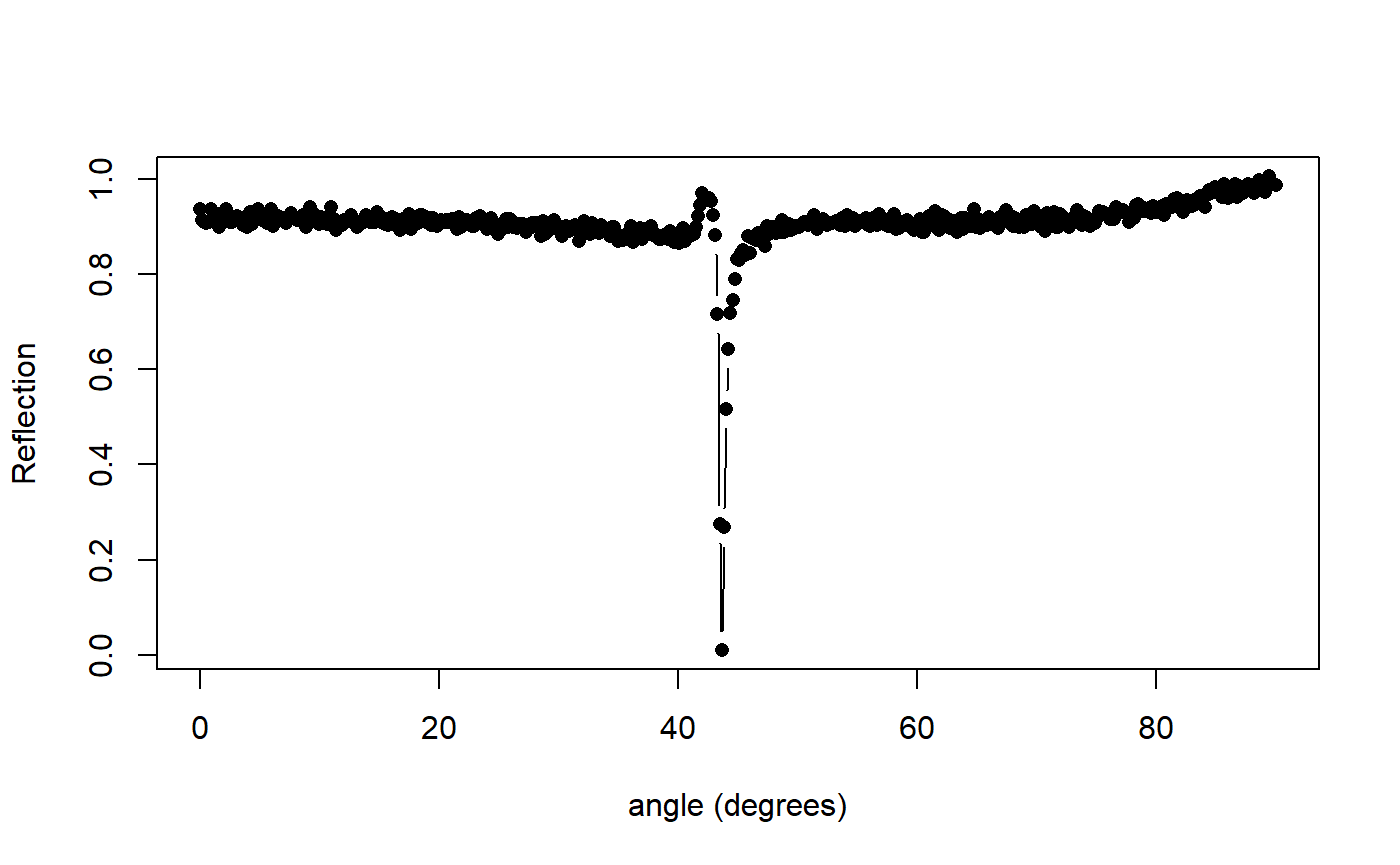
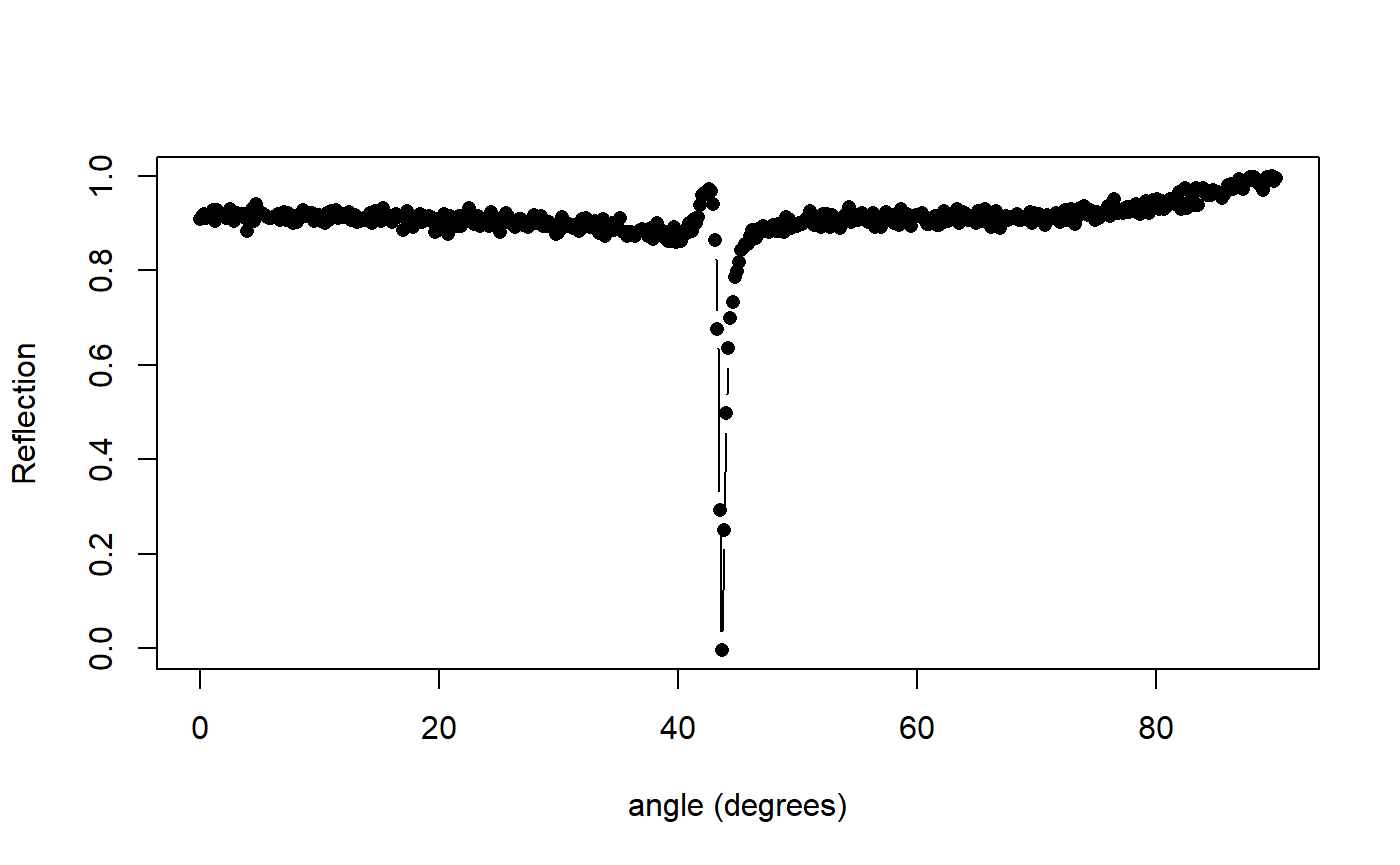
adding Pedrotti vignette

diff --git a/docs/articles/Pedrotti.html b/docs/articles/Pedrotti.html
@@ -1,0 +1,227 @@
+<!DOCTYPE html>
+<!-- Generated by pkgdown: do not edit by hand --><html>
+<head>
+<meta http-equiv="Content-Type" content="text/html; charset=UTF-8">
+<meta charset="utf-8">
+<meta http-equiv="X-UA-Compatible" content="IE=edge">
+<meta name="viewport" content="width=device-width, initial-scale=1.0">
+<title>Pedrotti Examples • mlfilms</title>
+<!-- jquery --><script src="https://code.jquery.com/jquery-3.1.0.min.js" integrity="sha384-nrOSfDHtoPMzJHjVTdCopGqIqeYETSXhZDFyniQ8ZHcVy08QesyHcnOUpMpqnmWq" crossorigin="anonymous"></script><!-- Bootstrap --><link href="https://maxcdn.bootstrapcdn.com/bootstrap/3.3.7/css/bootstrap.min.css" rel="stylesheet" integrity="sha384-BVYiiSIFeK1dGmJRAkycuHAHRg32OmUcww7on3RYdg4Va+PmSTsz/K68vbdEjh4u" crossorigin="anonymous">
+<script src="https://maxcdn.bootstrapcdn.com/bootstrap/3.3.7/js/bootstrap.min.js" integrity="sha384-Tc5IQib027qvyjSMfHjOMaLkfuWVxZxUPnCJA7l2mCWNIpG9mGCD8wGNIcPD7Txa" crossorigin="anonymous"></script><!-- Font Awesome icons --><link href="https://maxcdn.bootstrapcdn.com/font-awesome/4.6.3/css/font-awesome.min.css" rel="stylesheet" integrity="sha384-T8Gy5hrqNKT+hzMclPo118YTQO6cYprQmhrYwIiQ/3axmI1hQomh7Ud2hPOy8SP1" crossorigin="anonymous">
+<!-- clipboard.js --><script src="https://cdnjs.cloudflare.com/ajax/libs/clipboard.js/1.7.1/clipboard.min.js" integrity="sha384-cV+rhyOuRHc9Ub/91rihWcGmMmCXDeksTtCihMupQHSsi8GIIRDG0ThDc3HGQFJ3" crossorigin="anonymous"></script><!-- pkgdown --><link href="../pkgdown.css" rel="stylesheet">
+<script src="../jquery.sticky-kit.min.js"></script><script src="../pkgdown.js"></script><!-- docsearch --><link rel="stylesheet" href="https://cdn.jsdelivr.net/npm/docsearch.js@2/dist/cdn/docsearch.min.css">
+<link href="../docsearch.css" rel="stylesheet">
+<script src="https://cdnjs.cloudflare.com/ajax/libs/mark.js/8.11.1/jquery.mark.min.js" integrity="sha256-4HLtjeVgH0eIB3aZ9mLYF6E8oU5chNdjU6p6rrXpl9U=" crossorigin="anonymous"></script><meta property="og:title" content="Pedrotti Examples">
+<meta property="og:description" content="">
+<meta property="og:image" content="http://mlfilms.tjconstant.com/logo.png">
+<meta name="twitter:card" content="summary">
+<!-- mathjax --><script src="https://mathjax.rstudio.com/latest/MathJax.js?config=TeX-AMS-MML_HTMLorMML"></script><!--[if lt IE 9]>
+<script src="https://oss.maxcdn.com/html5shiv/3.7.3/html5shiv.min.js"></script>
+<script src="https://oss.maxcdn.com/respond/1.4.2/respond.min.js"></script>
+<![endif]-->
+</head>
+<body>
+    <div class="container template-article">
+      <header><div class="navbar navbar-default navbar-fixed-top" role="navigation">
+  <div class="container">
+    <div class="navbar-header">
+      <button type="button" class="navbar-toggle collapsed" data-toggle="collapse" data-target="#navbar">
+        <span class="icon-bar"></span>
+        <span class="icon-bar"></span>
+        <span class="icon-bar"></span>
+      </button>
+      <span class="navbar-brand">
+        <a class="navbar-link" href="../index.html">mlfilms</a>
+        <span class="label label-danger" data-toggle="tooltip" data-placement="bottom" title="Unreleased package">0.3.1</span>
+      </span>
+    </div>
+
+    <div id="navbar" class="navbar-collapse collapse">
+      <ul class="nav navbar-nav">
+<li>
+  <a href="../index.html">
+    <span class="fa fa-home fa-lg"></span>
+     
+  </a>
+</li>
+<li>
+  <a href="../reference/index.html">Reference</a>
+</li>
+<li class="dropdown">
+  <a href="#" class="dropdown-toggle" data-toggle="dropdown" role="button" aria-expanded="false">
+    Articles
+     
+    <span class="caret"></span>
+  </a>
+  <ul class="dropdown-menu" role="menu">
+<li>
+      <a href="../articles/Dispersive_materials.html">Dispersive Materials</a>
+    </li>
+    <li>
+      <a href="../articles/Fitting.html">Fitting Experimental Data</a>
+    </li>
+    <li>
+      <a href="../articles/Pedrotti.html">Pedrotti Examples</a>
+    </li>
+  </ul>
+</li>
+      </ul>
+<ul class="nav navbar-nav navbar-right">
+<li>
+  <a href="http://github.com/tjconstant/mlfilms">
+    <span class="fa fa-github fa-lg"></span>
+     
+  </a>
+</li>
+      </ul>
+<form class="navbar-form navbar-right" role="search">
+        <div class="form-group">
+          <input type="search" class="form-control" name="search-input" id="search-input" placeholder="Search..." aria-label="Search for..." autocomplete="off">
+</div>
+      </form>
+      
+    </div>
+<!--/.nav-collapse -->
+  </div>
+<!--/.container -->
+</div>
+<!--/.navbar -->
+
+      
+      </header><div class="row">
+  <div class="col-md-9 contents">
+    <div class="page-header toc-ignore">
+      <h1>Pedrotti Examples</h1>
+                        <h4 class="author">Tom Constant</h4>
+            
+            <h4 class="date">2018-05-22</h4>
+      
+      <small class="dont-index">Source: <a href="http://github.com/tjconstant/mlfilms/blob/master/vignettes/Pedrotti.Rmd"><code>vignettes/Pedrotti.Rmd</code></a></small>
+      <div class="hidden name"><code>Pedrotti.Rmd</code></div>
+
+    </div>
+
+    
+    
+<div id="pedrotti-pedrotti-pedrotti" class="section level2">
+<h2 class="hasAnchor">
+<a href="#pedrotti-pedrotti-pedrotti" class="anchor"></a>Pedrotti, Pedrotti &amp; Pedrotti</h2>
+<p>The <code>mlfilms</code> package was originally written as an example package to encourage undergraduate physics students to develop, or at least acquire a basic working knowledge of how to program the Transfer Matrix Method. As such, the base code for <code>mlfilms</code> follows, as close as possible, the naming and variable conventions from the recommended undergraduate text for Exeter university undergraduates; Pedrotti, Pedrotti &amp; Pedrotti’s Introduction to Optics<a href="#fn1" class="footnoteRef" id="fnref1"><sup>1</sup></a>.</p>
+<p>The package has since been abstracted a little too far for an introductory coding experience for new physics students, but the examples from the text are reproduced here for historical reasons. Reproducing these examples (mostly figures from the text) was the final step to ensure students own code was working correctly.</p>
+<div class="sourceCode"><pre class="sourceCode r"><code class="sourceCode r"><span class="kw">library</span>(mlfilms)</code></pre></div>
+</div>
+<div id="example-call-for-wavelength-scan-highlow-index-stack" class="section level2">
+<h2 class="hasAnchor">
+<a href="#example-call-for-wavelength-scan-highlow-index-stack" class="anchor"></a>Example call for wavelength scan (high/low index stack)</h2>
+<div class="sourceCode"><pre class="sourceCode r"><code class="sourceCode r">layers&lt;-<span class="kw">list</span>(<span class="dt">index=</span><span class="kw">c</span>(<span class="fl">2.35</span><span class="op">+</span>0i,<span class="fl">1.38</span><span class="op">+</span>0i),<span class="dt">thickness=</span><span class="kw">c</span>(<span class="fl">550e-9</span><span class="op">/</span>(<span class="dv">4</span><span class="op">*</span><span class="fl">2.35</span>),<span class="fl">550e-9</span><span class="op">/</span>(<span class="dv">4</span><span class="op">*</span><span class="fl">1.38</span>)),<span class="dt">repetitions=</span><span class="dv">6</span>)
+R_highlowStack6&lt;-<span class="kw"><a href="../reference/wavelength_scan.html">wavelength_scan</a></span>(<span class="dt">incident_medium.index=</span><span class="dv">1</span><span class="op">+</span>0i,<span class="dt">exit_medium.index=</span><span class="fl">1.52</span><span class="op">+</span>0i,<span class="dt">layers=</span>layers)
+<span class="kw">plot</span>(R_highlowStack6<span class="op">$</span>wavelength,R_highlowStack6<span class="op">$</span>Reflection,<span class="dt">type=</span><span class="st">'l'</span>,<span class="dt">lwd=</span><span class="dv">2</span>, <span class="dt">ylim=</span><span class="kw">c</span>(<span class="dv">0</span>,<span class="dv">1</span>))
+<span class="kw">title</span>(<span class="st">"H/L index stack (N=6 &amp; 2): Pedrotti Figure 22-9"</span>)
+
+layers<span class="op">$</span>repetitions&lt;-<span class="dv">2</span>
+R_highlowStack2&lt;-<span class="kw"><a href="../reference/wavelength_scan.html">wavelength_scan</a></span>(<span class="dt">incident_medium.index=</span><span class="dv">1</span><span class="op">+</span>0i,<span class="dt">exit_medium.index=</span><span class="fl">1.52</span><span class="op">+</span>0i,<span class="dt">layers=</span>layers)
+<span class="kw">lines</span>(R_highlowStack2<span class="op">$</span>wavelength, R_highlowStack2<span class="op">$</span>Reflection,<span class="dt">lty=</span><span class="dv">2</span>,<span class="dt">lwd=</span><span class="dv">2</span>)</code></pre></div>
+<p><img src="Pedrotti_files/figure-html/unnamed-chunk-2-1.png" width="700"></p>
+</div>
+<div id="example-call-for-angle-scan-plasmon-and-plasmon-shifted-due-to-60-nm-water-layer" class="section level2">
+<h2 class="hasAnchor">
+<a href="#example-call-for-angle-scan-plasmon-and-plasmon-shifted-due-to-60-nm-water-layer" class="anchor"></a>Example call for angle scan (plasmon) and plasmon shifted due to 60 nm water layer</h2>
+<div class="sourceCode"><pre class="sourceCode r"><code class="sourceCode r">layers&lt;-<span class="kw">list</span>(<span class="dt">index=</span><span class="kw">c</span>(<span class="fl">0.13</span><span class="op">+</span>4i),<span class="dt">thickness=</span><span class="kw">c</span>(<span class="fl">45e-9</span>),<span class="dt">repetitions=</span> <span class="dv">1</span>)
+R_plasmon&lt;-<span class="kw"><a href="../reference/angle_scan.html">angle_scan</a></span>(<span class="dt">incident_medium.index=</span><span class="fl">1.5</span><span class="op">+</span>0i,<span class="dt">exit_medium.index=</span><span class="dv">1</span><span class="op">+</span>0i,<span class="dt">layers=</span>layers)
+<span class="kw">plot</span>(R_plasmon<span class="op">$</span>angle,R_plasmon<span class="op">$</span>Reflection,<span class="dt">type=</span><span class="st">'l'</span>,<span class="dt">lwd=</span><span class="dv">2</span>, <span class="dt">ylim=</span><span class="kw">c</span>(<span class="dv">0</span>,<span class="dv">1</span>))
+<span class="kw">title</span>(<span class="st">"Surface Plasmon in air and water"</span>)
+
+layers<span class="op">$</span>index&lt;-<span class="kw">c</span>(<span class="fl">0.13</span><span class="op">+</span>4i,<span class="fl">1.33</span><span class="op">+</span>0i)
+layers<span class="op">$</span>thickness&lt;-<span class="kw">c</span>(<span class="fl">45e-9</span>,<span class="fl">60e-9</span>)
+layers<span class="op">$</span>repetitions&lt;-<span class="dv">1</span>
+R_plasmon2&lt;-<span class="kw"><a href="../reference/angle_scan.html">angle_scan</a></span>(<span class="dt">incident_medium.index=</span><span class="fl">1.5</span><span class="op">+</span>0i,<span class="dt">exit_medium.index=</span><span class="dv">1</span><span class="op">+</span>0i,<span class="dt">layers=</span>layers)
+<span class="kw">lines</span>(R_plasmon2<span class="op">$</span>angle,R_plasmon2<span class="op">$</span>Reflection,<span class="dt">lwd=</span><span class="dv">2</span>,<span class="dt">lty=</span><span class="dv">2</span>)</code></pre></div>
+<p><img src="Pedrotti_files/figure-html/unnamed-chunk-3-1.png" width="700"></p>
+</div>
+<div id="example-call-for-wavelength-scan--triple-layer-film-pedrotti-figure-22-7" class="section level2">
+<h2 class="hasAnchor">
+<a href="#example-call-for-wavelength-scan--triple-layer-film-pedrotti-figure-22-7" class="anchor"></a>Example call for wavelength scan. Triple layer film (Pedrotti figure 22-7)</h2>
+<div class="sourceCode"><pre class="sourceCode r"><code class="sourceCode r">layers=<span class="kw">list</span>(<span class="dt">index=</span><span class="kw">c</span>(<span class="fl">1.38</span><span class="op">+</span>0i,<span class="fl">2.02</span><span class="op">+</span>0i,<span class="fl">1.8</span><span class="op">+</span>0i),<span class="dt">thickness=</span><span class="kw">c</span>(<span class="fl">550e-9</span><span class="op">/</span>(<span class="dv">4</span><span class="op">*</span><span class="fl">1.38</span>),<span class="fl">550e-9</span><span class="op">/</span>(<span class="dv">4</span><span class="op">*</span><span class="fl">2.02</span>),<span class="fl">550e-9</span><span class="op">/</span>(<span class="dv">4</span><span class="op">*</span><span class="fl">1.8</span>)),<span class="dt">repetitions=</span><span class="dv">1</span>)
+R_triple&lt;-<span class="kw"><a href="../reference/wavelength_scan.html">wavelength_scan</a></span>(<span class="dt">incident_medium.index=</span><span class="dv">1</span><span class="op">+</span>0i,<span class="dt">exit_medium.index=</span><span class="fl">1.52</span><span class="op">+</span>0i,<span class="dt">layers=</span>layers)
+<span class="kw">plot</span>(R_triple<span class="op">$</span>wavelength,R_triple<span class="op">$</span>Reflection,<span class="dt">type=</span><span class="st">'l'</span>,<span class="dt">lwd=</span><span class="dv">2</span>, <span class="dt">ylim=</span><span class="kw">c</span>(<span class="dv">0</span>,<span class="fl">0.1</span>));<span class="kw">grid</span>()
+<span class="kw">title</span>(<span class="st">"Triple Films: Pedrotti Figure 22-7"</span>)
+
+layers<span class="op">$</span>index&lt;-<span class="kw">c</span>(<span class="fl">1.38</span><span class="op">+</span>0i,<span class="fl">2.2</span><span class="op">+</span>0i,<span class="fl">1.7</span><span class="op">+</span>0i)
+layers<span class="op">$</span>thickness&lt;-<span class="kw">c</span>(<span class="fl">550e-9</span><span class="op">/</span>(<span class="dv">4</span><span class="op">*</span><span class="fl">1.38</span>),<span class="fl">550e-9</span><span class="op">/</span>(<span class="dv">2</span><span class="op">*</span><span class="fl">2.2</span>),<span class="fl">550e-9</span><span class="op">/</span>(<span class="dv">4</span><span class="op">*</span><span class="fl">1.7</span>))
+R_triple2&lt;-<span class="kw"><a href="../reference/wavelength_scan.html">wavelength_scan</a></span>(<span class="dt">incident_medium.index=</span><span class="dv">1</span><span class="op">+</span>0i,<span class="dt">exit_medium.index=</span><span class="fl">1.52</span><span class="op">+</span>0i,<span class="dt">layers=</span>layers)
+<span class="kw">lines</span>(R_triple2<span class="op">$</span>wavelength,R_triple2<span class="op">$</span>Reflection,<span class="dt">lty=</span><span class="dv">2</span>,<span class="dt">lwd=</span><span class="dv">2</span>)</code></pre></div>
+<p><img src="Pedrotti_files/figure-html/unnamed-chunk-4-1.png" width="700"></p>
+</div>
+<div id="example-call-for-wavelength-scan--quarter-wavelength-stacks-pedrotti-figure-22-4" class="section level2">
+<h2 class="hasAnchor">
+<a href="#example-call-for-wavelength-scan--quarter-wavelength-stacks-pedrotti-figure-22-4" class="anchor"></a>Example call for wavelength scan. Quarter wavelength stacks (Pedrotti figure 22-4)</h2>
+<div class="sourceCode"><pre class="sourceCode r"><code class="sourceCode r">layers&lt;-<span class="kw">list</span>(<span class="dt">index=</span><span class="kw">c</span>(<span class="fl">1.65</span><span class="op">+</span>0i,<span class="fl">2.1</span><span class="op">+</span>0i),<span class="dt">thickness=</span><span class="kw">c</span>(<span class="fl">550e-9</span><span class="op">/</span>(<span class="dv">4</span><span class="op">*</span><span class="fl">1.65</span>),<span class="fl">550e-9</span><span class="op">/</span>(<span class="dv">4</span><span class="op">*</span><span class="fl">2.2</span>)),<span class="dt">repetitions=</span><span class="dv">1</span>)
+R_quarterstack&lt;-<span class="kw"><a href="../reference/wavelength_scan.html">wavelength_scan</a></span>(<span class="dt">incident_medium.index=</span><span class="dv">1</span><span class="op">+</span>0i,<span class="dt">exit_medium.index=</span><span class="fl">1.52</span><span class="op">+</span>0i,<span class="dt">layers=</span>layers)
+<span class="kw">plot</span>(R_quarterstack<span class="op">$</span>wavelength,R_quarterstack<span class="op">$</span>Reflection,<span class="dt">type=</span><span class="st">'l'</span>,<span class="dt">lwd=</span><span class="dv">2</span>, <span class="dt">lty=</span><span class="dv">2</span>,<span class="dt">ylim=</span><span class="kw">c</span>(<span class="dv">0</span>,<span class="fl">0.1</span>));<span class="kw">grid</span>()
+<span class="kw">title</span>(<span class="st">"Double Films: Pedrotti Figure 22-4"</span>)
+
+layers&lt;-<span class="kw">list</span>(<span class="dt">index=</span><span class="kw">c</span>(<span class="fl">1.38</span><span class="op">+</span>0i,<span class="fl">1.6</span><span class="op">+</span>0i),<span class="dt">thickness=</span><span class="kw">c</span>(<span class="fl">550e-9</span><span class="op">/</span>(<span class="dv">4</span><span class="op">*</span><span class="fl">1.38</span>),<span class="fl">550e-9</span><span class="op">/</span>(<span class="dv">2</span><span class="op">*</span><span class="fl">1.6</span>)),<span class="dt">repetitions=</span><span class="dv">1</span>)
+R_quarterstack2&lt;-<span class="kw"><a href="../reference/wavelength_scan.html">wavelength_scan</a></span>(<span class="dt">incident_medium.index=</span><span class="dv">1</span><span class="op">+</span>0i,<span class="dt">exit_medium.index=</span><span class="fl">1.52</span><span class="op">+</span>0i,<span class="dt">layers=</span>layers)
+<span class="kw">lines</span>(R_quarterstack2<span class="op">$</span>wavelength,R_quarterstack2<span class="op">$</span>Reflection,<span class="dt">type=</span><span class="st">'l'</span>,<span class="dt">lwd=</span><span class="dv">2</span>,<span class="dt">lty=</span><span class="dv">4</span>)
+
+layers<span class="op">$</span>index&lt;-<span class="kw">c</span>(<span class="fl">1.38</span><span class="op">+</span>0i,<span class="fl">1.85</span><span class="op">+</span>0i)
+layers<span class="op">$</span>thickness&lt;-<span class="kw">c</span>(<span class="fl">550e-9</span><span class="op">/</span>(<span class="dv">4</span><span class="op">*</span><span class="fl">1.38</span>),<span class="fl">550e-9</span><span class="op">/</span>(<span class="dv">2</span><span class="op">*</span><span class="fl">1.85</span>))
+layers<span class="op">$</span>repetitions&lt;-<span class="dv">1</span>
+R_quarterstack3&lt;-<span class="kw"><a href="../reference/wavelength_scan.html">wavelength_scan</a></span>(<span class="dt">incident_medium.index=</span><span class="dv">1</span><span class="op">+</span>0i,<span class="dt">exit_medium.index=</span><span class="fl">1.52</span><span class="op">+</span>0i,<span class="dt">layers=</span>layers)
+<span class="kw">lines</span>(R_quarterstack3<span class="op">$</span>wavelength,R_quarterstack3<span class="op">$</span>Refelction,<span class="dt">type=</span><span class="st">'l'</span>,<span class="dt">lwd=</span><span class="dv">2</span>,<span class="dt">lty=</span><span class="dv">1</span>)</code></pre></div>
+<p><img src="Pedrotti_files/figure-html/unnamed-chunk-5-1.png" width="700"></p>
+</div>
+<div class="footnotes">
+<hr>
+<ol>
+<li id="fn1"><p><em>Introduction to Optics 3rd Edition</em>, Pearson international edition by Frank L. Pedrotti, Leno Matthew Pedrotti, Leno S. Pedrotti<a href="#fnref1">↩</a></p></li>
+</ol>
+</div>
+  </div>
+
+  <div class="col-md-3 hidden-xs hidden-sm" id="sidebar">
+        <div id="tocnav">
+      <h2 class="hasAnchor">
+<a href="#tocnav" class="anchor"></a>Contents</h2>
+      <ul class="nav nav-pills nav-stacked">
+<li><a href="#pedrotti-pedrotti-pedrotti">Pedrotti, Pedrotti &amp; Pedrotti</a></li>
+      <li><a href="#example-call-for-wavelength-scan-highlow-index-stack">Example call for wavelength scan (high/low index stack)</a></li>
+      <li><a href="#example-call-for-angle-scan-plasmon-and-plasmon-shifted-due-to-60-nm-water-layer">Example call for angle scan (plasmon) and plasmon shifted due to 60 nm water layer</a></li>
+      <li><a href="#example-call-for-wavelength-scan--triple-layer-film-pedrotti-figure-22-7">Example call for wavelength scan. Triple layer film (Pedrotti figure 22-7)</a></li>
+      <li><a href="#example-call-for-wavelength-scan--quarter-wavelength-stacks-pedrotti-figure-22-4">Example call for wavelength scan. Quarter wavelength stacks (Pedrotti figure 22-4)</a></li>
+      </ul>
+</div>
+      </div>
+
+</div>
+
+
+      <footer><div class="copyright">
+  <p>Developed by Tom Constant.</p>
+</div>
+
+<div class="pkgdown">
+  <p>Site built with <a href="http://pkgdown.r-lib.org/">pkgdown</a>.</p>
+</div>
+
+      </footer>
+</div>
+
+  
+<script type="text/javascript" src="https://cdn.jsdelivr.net/npm/docsearch.js@2/dist/cdn/docsearch.min.js"></script><script>
+  docsearch({
+    
+    
+    apiKey: '828c86f58b1828660651c459e6720bde',
+    indexName: 'mlfilms',
+    inputSelector: 'input#search-input.form-control',
+    transformData: function(hits) {
+      return hits.map(function (hit) {
+        hit.url = updateHitURL(hit);
+        return hit;
+      });
+    }
+  });
+</script>
+</body>
+</html>

diff --git a/docs/articles/Fitting.html b/docs/articles/Fitting.html
@@ -60,6 +60,9 @@
     <li>
       <a href="../articles/Fitting.html">Fitting Experimental Data</a>
     </li>
+    <li>
+      <a href="../articles/Pedrotti.html">Pedrotti Examples</a>
+    </li>
   </ul>
 </li>
       </ul>
@@ -142,14 +145,14 @@ my_plasmon<span class="op">$</span>Reflection &lt;-<span class="st"> </span>my_p
 
 <span class="kw">print</span>(guess)
 <span class="co">#&gt; $par</span>
-<span class="co">#&gt; [1]  0.1334808  3.9978033 45.7693674</span>
+<span class="co">#&gt; [1]  0.1308355  4.0001813 44.9321498</span>
 <span class="co">#&gt; </span>
 <span class="co">#&gt; $value</span>
-<span class="co">#&gt; [1] 9.523621e-05</span>
+<span class="co">#&gt; [1] 9.59423e-05</span>
 <span class="co">#&gt; </span>
 <span class="co">#&gt; $counts</span>
 <span class="co">#&gt; function gradient </span>
-<span class="co">#&gt;      270       NA </span>
+<span class="co">#&gt;      162       NA </span>
 <span class="co">#&gt; </span>
 <span class="co">#&gt; $convergence</span>
 <span class="co">#&gt; [1] 0</span>

diff --git a/docs/articles/index.html b/docs/articles/index.html
@@ -91,6 +91,9 @@
     <li>
       <a href="../articles/Fitting.html">Fitting Experimental Data</a>
     </li>
+    <li>
+      <a href="../articles/Pedrotti.html">Pedrotti Examples</a>
+    </li>
   </ul>
 </li>
       </ul>
@@ -130,6 +133,7 @@
       <ul>
         <li><a href="Dispersive_materials.html">Dispersive Materials</a></li>
         <li><a href="Fitting.html">Fitting Experimental Data</a></li>
+        <li><a href="Pedrotti.html">Pedrotti Examples</a></li>
       </ul>
     </div>
   </div>

diff --git a/docs/articles/Dispersive_materials.html b/docs/articles/Dispersive_materials.html
@@ -60,6 +60,9 @@
     <li>
       <a href="../articles/Fitting.html">Fitting Experimental Data</a>
     </li>
+    <li>
+      <a href="../articles/Pedrotti.html">Pedrotti Examples</a>
+    </li>
   </ul>
 </li>
       </ul>

diff --git a/docs/reference/angle_scan.html b/docs/reference/angle_scan.html
@@ -93,6 +93,9 @@
     <li>
       <a href="../articles/Fitting.html">Fitting Experimental Data</a>
     </li>
+    <li>
+      <a href="../articles/Pedrotti.html">Pedrotti Examples</a>
+    </li>
   </ul>
 </li>
       </ul>

diff --git a/docs/reference/create_material.html b/docs/reference/create_material.html
@@ -93,6 +93,9 @@
     <li>
       <a href="../articles/Fitting.html">Fitting Experimental Data</a>
     </li>
+    <li>
+      <a href="../articles/Pedrotti.html">Pedrotti Examples</a>
+    </li>
   </ul>
 </li>
       </ul>

diff --git a/docs/reference/dispersion_scan.html b/docs/reference/dispersion_scan.html
@@ -93,6 +93,9 @@
     <li>
       <a href="../articles/Fitting.html">Fitting Experimental Data</a>
     </li>
+    <li>
+      <a href="../articles/Pedrotti.html">Pedrotti Examples</a>
+    </li>
   </ul>
 </li>
       </ul>

diff --git a/docs/reference/index.html b/docs/reference/index.html
@@ -91,6 +91,9 @@
     <li>
       <a href="../articles/Fitting.html">Fitting Experimental Data</a>
     </li>
+    <li>
+      <a href="../articles/Pedrotti.html">Pedrotti Examples</a>
+    </li>
   </ul>
 </li>
       </ul>

diff --git a/docs/reference/mlfilms-package.html b/docs/reference/mlfilms-package.html
@@ -93,6 +93,9 @@
     <li>
       <a href="../articles/Fitting.html">Fitting Experimental Data</a>
     </li>
+    <li>
+      <a href="../articles/Pedrotti.html">Pedrotti Examples</a>
+    </li>
   </ul>
 </li>
       </ul>

diff --git a/docs/reference/wavelength_scan.html b/docs/reference/wavelength_scan.html
@@ -93,6 +93,9 @@
     <li>
       <a href="../articles/Fitting.html">Fitting Experimental Data</a>
     </li>
+    <li>
+      <a href="../articles/Pedrotti.html">Pedrotti Examples</a>
+    </li>
   </ul>
 </li>
       </ul>

diff --git a/docs/authors.html b/docs/authors.html
@@ -91,6 +91,9 @@
     <li>
       <a href="articles/Fitting.html">Fitting Experimental Data</a>
     </li>
+    <li>
+      <a href="articles/Pedrotti.html">Pedrotti Examples</a>
+    </li>
   </ul>
 </li>
       </ul>

diff --git a/docs/index.html b/docs/index.html
@@ -60,6 +60,9 @@
     <li>
       <a href="articles/Fitting.html">Fitting Experimental Data</a>
     </li>
+    <li>
+      <a href="articles/Pedrotti.html">Pedrotti Examples</a>
+    </li>
   </ul>
 </li>
       </ul>
